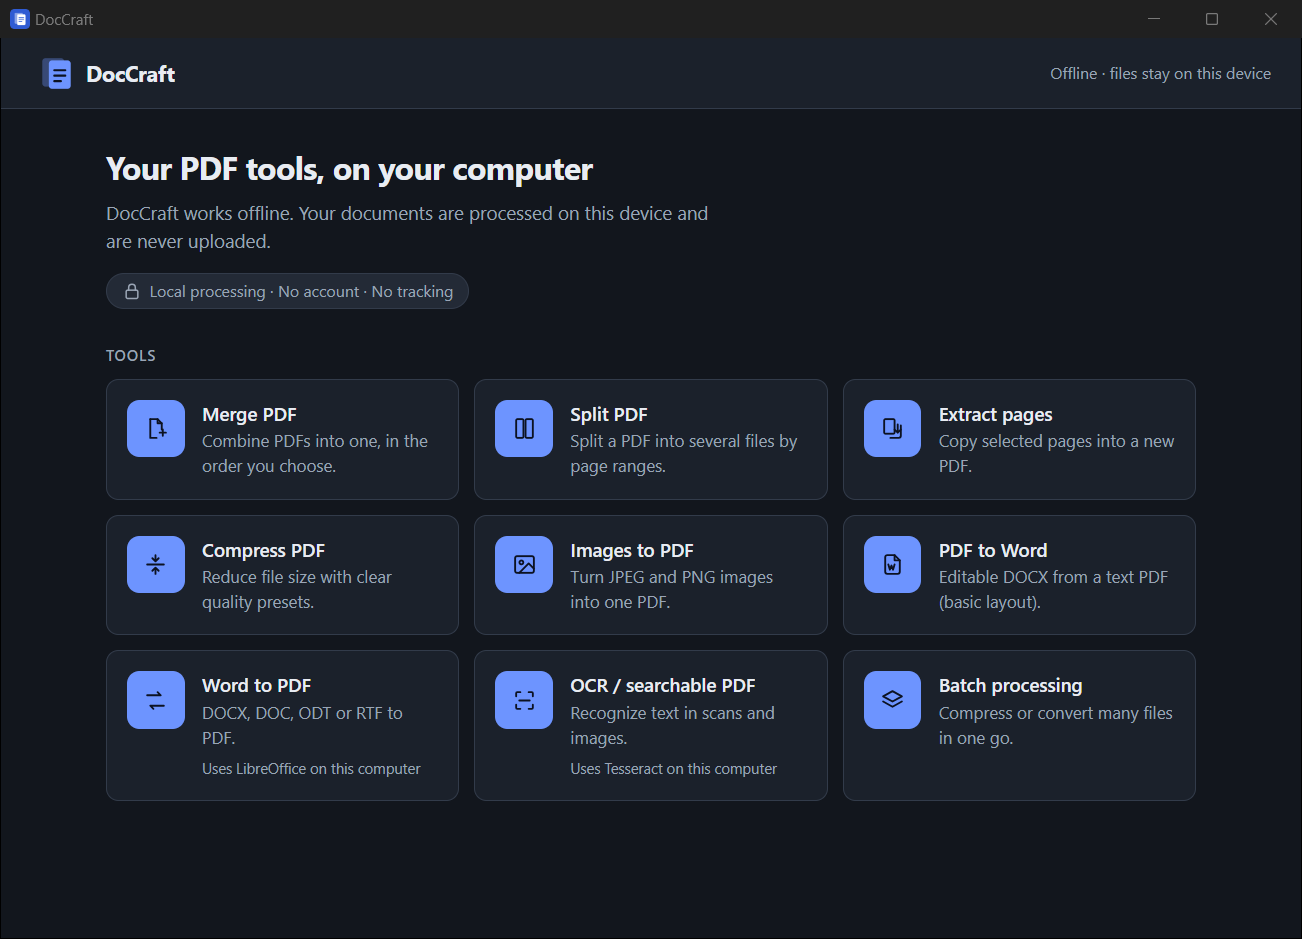
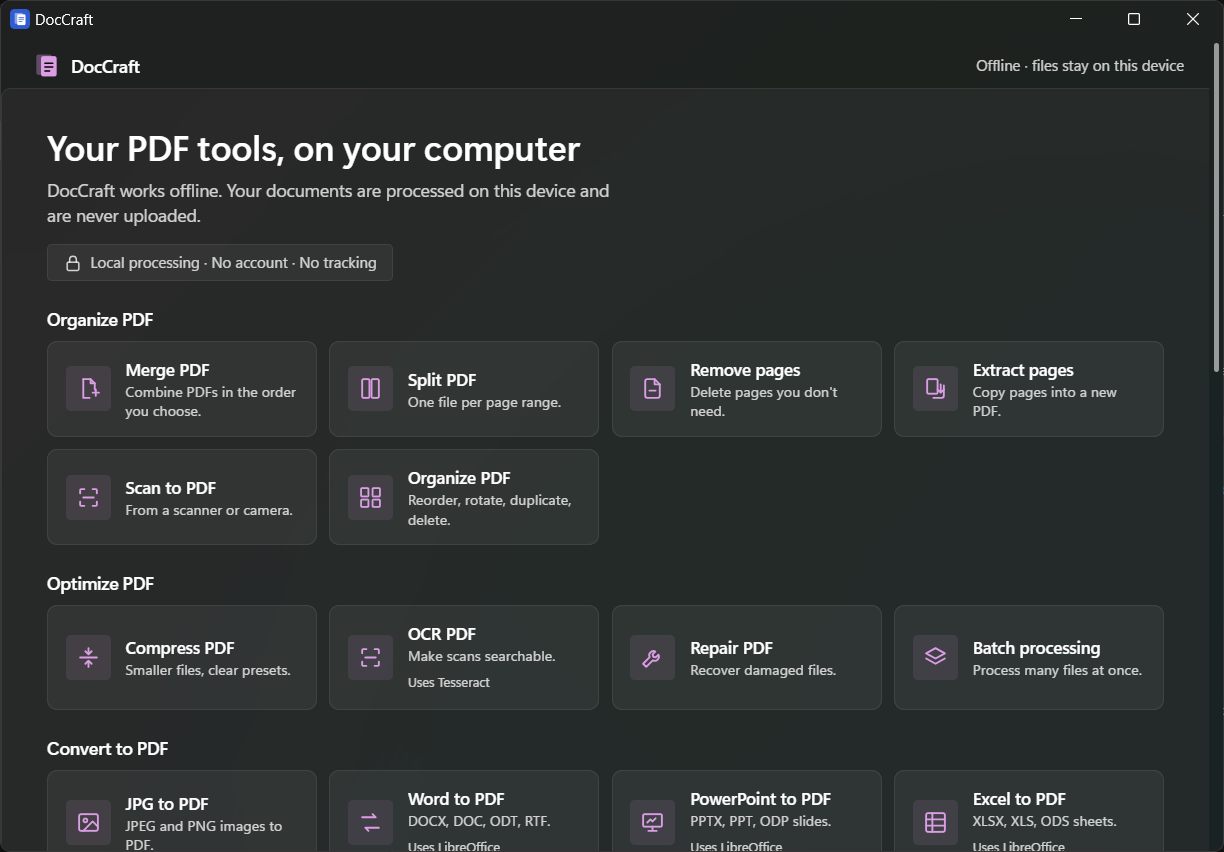
README: link DocCraft 0.2.0 installer, what's new, new screenshots
- Download button and install step point to DocCraft_0.2.0_x64-setup.exe
  in the doccraft_v1.0.0 release; version badge.
- "What's new in 0.2.0" section; Windows 11 look in features and install
  notes (Mica on Windows 11, solid background on Windows 10).
- New Windows 11-style screenshots (dashboard, compress options, scan).
- CHANGELOG: entries labelled 0.2.0.

diff --git a/README.md b/README.md
@@ -11,19 +11,27 @@ Merge, split, compress, convert, edit, sign, protect and OCR your documents: no 
 ![Built with Tauri 2](https://img.shields.io/badge/built%20with-Tauri%202-24C8DB)
 ![Works offline](https://img.shields.io/badge/works-offline-2ea44f)
 ![License: MIT](https://img.shields.io/badge/license-MIT-blue)
+![Version 0.2.0](https://img.shields.io/badge/version-0.2.0-0078D6)
 ![Status: early](https://img.shields.io/badge/status-early%20release-orange)
 
-<a href="https://github.com/pushkar-jat/DocCraft/releases/latest/download/DocCraft_x64-setup.exe"><img src="https://img.shields.io/badge/Download_for_Windows-DocCraft_x64--setup.exe-0078D6?style=for-the-badge&logo=windows&logoColor=white" alt="Download DocCraft for Windows"></a>
+<a href="https://github.com/pushkar-jat/DocCraft/releases/download/doccraft_v1.0.0/DocCraft_0.2.0_x64-setup.exe"><img src="https://img.shields.io/badge/Download_for_Windows-DocCraft_0.2.0_x64--setup.exe-0078D6?style=for-the-badge&logo=windows&logoColor=white" alt="Download DocCraft 0.2.0 for Windows"></a>
 
 <sub>Windows 10/11, 64-bit · about 5 MB · <a href="https://github.com/pushkar-jat/DocCraft/releases">all releases</a></sub>
 
-<img src="docs/screenshots/dashboard.png" width="820" alt="DocCraft dashboard with PDF tools grouped by category">
+<img src="docs/screenshots/dashboard.png" width="820" alt="DocCraft dashboard in the Windows 11 style, with PDF tools grouped by category">
 
 </div>
 
 ## Why DocCraft?
 
 Online PDF sites are convenient, but they ask you to upload contracts, invoices, IDs and reports to someone else's server. **DocCraft gives you the same everyday tools as a small desktop app that keeps every file on your device.** It works without an internet connection, needs no sign-up, and contains no analytics.
+
+## What's new in 0.2.0
+
+- **32 tools instead of 9**: page organizing, scanning, repair, Office and HTML conversions, PDF to Excel/PowerPoint/PDF-A/Markdown, editing, forms, watermarks, page numbers, protect/unlock, signing (including certificate signatures), redaction and compare.
+- **Windows 11 look**: Mica window background, your own Windows accent colour, Segoe UI Variable and Fluent controls. Light and dark follow your Windows setting.
+
+Full list: [CHANGELOG.md](CHANGELOG.md).
 
 ## Features
 
@@ -45,11 +53,16 @@ Built to be trustworthy:
 - **Originals are never changed.** Outputs can never replace an input, and Windows asks before replacing any other file.
 - **Honest results.** If a PDF can't be made smaller, DocCraft says so instead of saving a bigger file. Limits like "basic layout" are shown next to the button.
 - **Cancel anything.** Cancelling stops the work immediately and leaves nothing behind.
-- **Accessible.** Keyboard-operable, screen-reader-friendly status messages, light and dark themes.
+- **Feels like Windows.** Windows 11 styling with Mica and your accent colour; light and dark follow the system.
+- **Accessible.** Keyboard-operable, screen-reader-friendly status messages, visible focus.
 
 ## Screenshots
 
 <table>
+  <tr>
+    <td width="50%"><img src="docs/screenshots/compress-options.png" alt="Compress PDF with three Fluent-style option cards"><br><sub><b>Windows 11 style</b>: Fluent controls in your accent colour</sub></td>
+    <td width="50%"><img src="docs/screenshots/scan.png" alt="Scan to PDF with scanner and camera sources"><br><sub><b>Scan to PDF</b>: scanner or camera, optional OCR</sub></td>
+  </tr>
   <tr>
     <td width="50%"><img src="docs/screenshots/merge.png" alt="Merge PDF: three files in order and a success message"><br><sub><b>Merge</b>: arrange files, then merge in that order</sub></td>
     <td width="50%"><img src="docs/screenshots/split.png" alt="Split PDF with custom page ranges"><br><sub><b>Split</b>: page ranges validated as you type</sub></td>
@@ -63,6 +76,8 @@ Built to be trustworthy:
     <td><img src="docs/screenshots/batch.png" alt="Batch processing with per-file status"><br><sub><b>Batch</b>: one bad file never stops the rest</sub></td>
   </tr>
 </table>
+
+<sub>The lower four screenshots show results from an earlier version; tool behaviour is unchanged, only the styling is new.</sub>
 
 ## Privacy
 
@@ -79,11 +94,13 @@ Details: [docs/ARCHITECTURE.md → Security boundaries](docs/ARCHITECTURE.md#sec
 
 ### Download (Windows 10/11, 64-bit)
 
-1. **[⬇ Download DocCraft_x64-setup.exe](https://github.com/pushkar-jat/DocCraft/releases/latest/download/DocCraft_x64-setup.exe)** (always the latest version). Older versions are on the [Releases](https://github.com/pushkar-jat/DocCraft/releases) page.
+1. **[⬇ Download DocCraft_0.2.0_x64-setup.exe](https://github.com/pushkar-jat/DocCraft/releases/download/doccraft_v1.0.0/DocCraft_0.2.0_x64-setup.exe)** (version 0.2.0, about 5 MB). Older versions are on the [Releases](https://github.com/pushkar-jat/DocCraft/releases) page.
 2. Run it. Because DocCraft is not code-signed yet, Windows SmartScreen may show *"Windows protected your PC"*: click **More info → Run anyway**.
 3. Start **DocCraft** from the Start menu.
 
-An `.msi` package is also provided for managed/IT installs.
+**Updating:** run the new installer. It replaces the old version in place; DocCraft stores no documents, so nothing is lost.
+
+The Mica background needs Windows 11; on Windows 10 the app uses a solid background and works the same.
 
 ### Optional: Office conversions and OCR
 

diff --git a/CHANGELOG.md b/CHANGELOG.md
@@ -2,7 +2,7 @@
 
 All notable changes to DocCraft are listed here. Format based on [Keep a Changelog](https://keepachangelog.com/).
 
-## [Unreleased] — Windows 11 look
+## [0.2.0] — 2026-10-18: Windows 11 look and full toolkit (32 local tools)
 
 ### Changed
 - The UI now follows Windows 11 (Fluent): Mica window backdrop on Windows 11, the user's Windows accent colour, Segoe UI Variable, and Fluent buttons, text fields, combo boxes, check boxes, radio buttons, info bars and scroll bars. Light/dark follow the Windows app setting. Windows 10 keeps a solid background.
@@ -10,8 +10,6 @@ All notable changes to DocCraft are listed here. Format based on [Keep a Changel
 
 ### Fixed
 - Scan to PDF: "Scan a page" is disabled when no scanner is found.
-
-## Full toolkit: 32 local tools
 
 ### Added
 - **Organize**: Remove pages, Organize PDF (thumbnail grid: reorder, rotate, duplicate, delete, insert blank pages), **Scan to PDF** (Windows scanner via WIA, or camera capture with an optional "document mode" filter; optional OCR).
